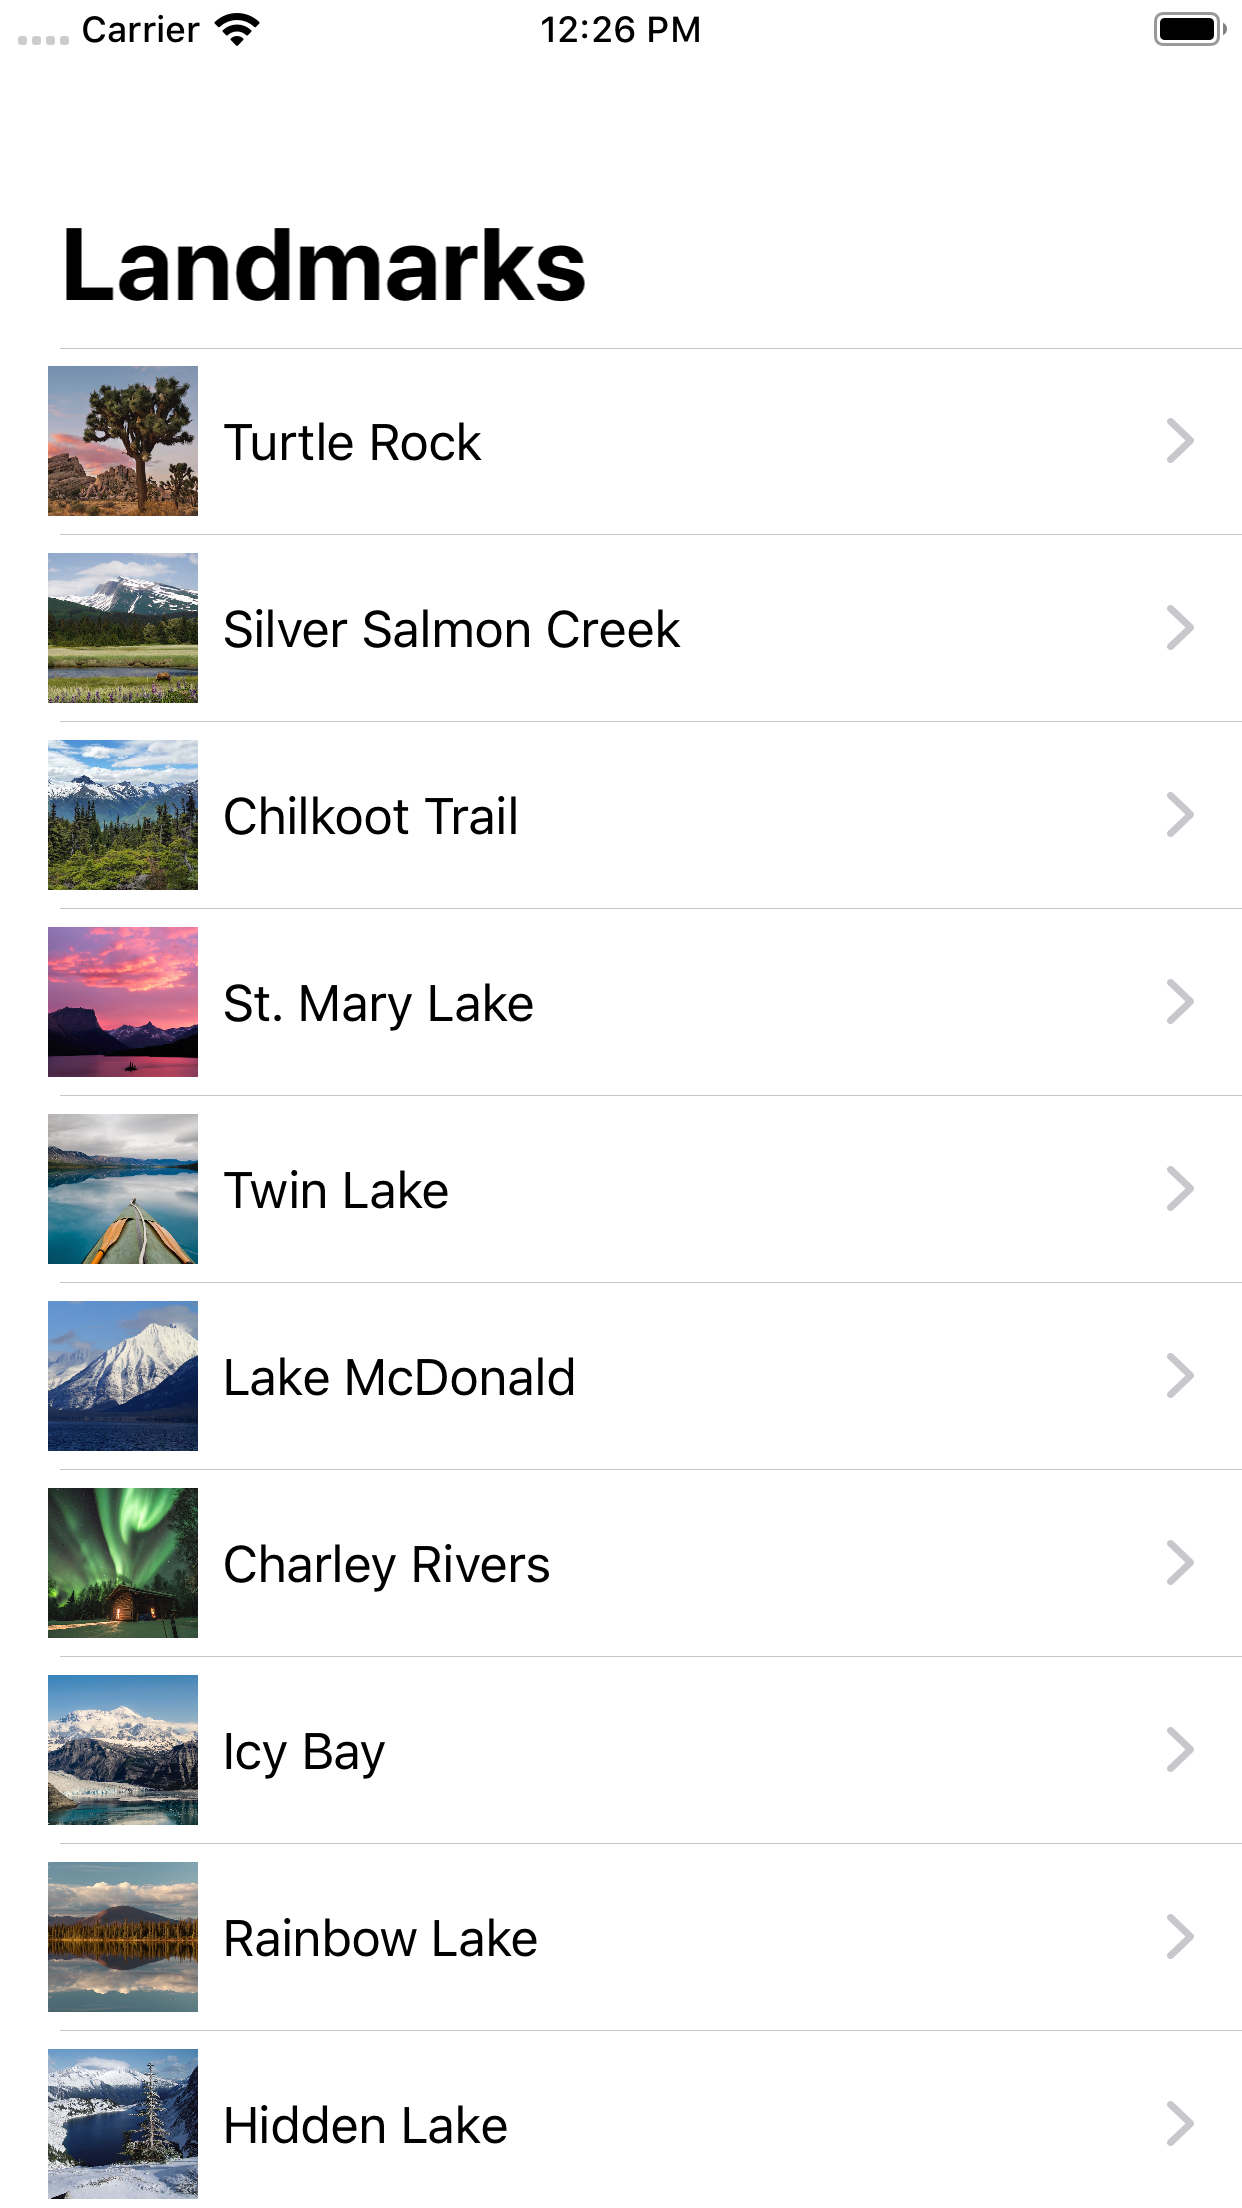
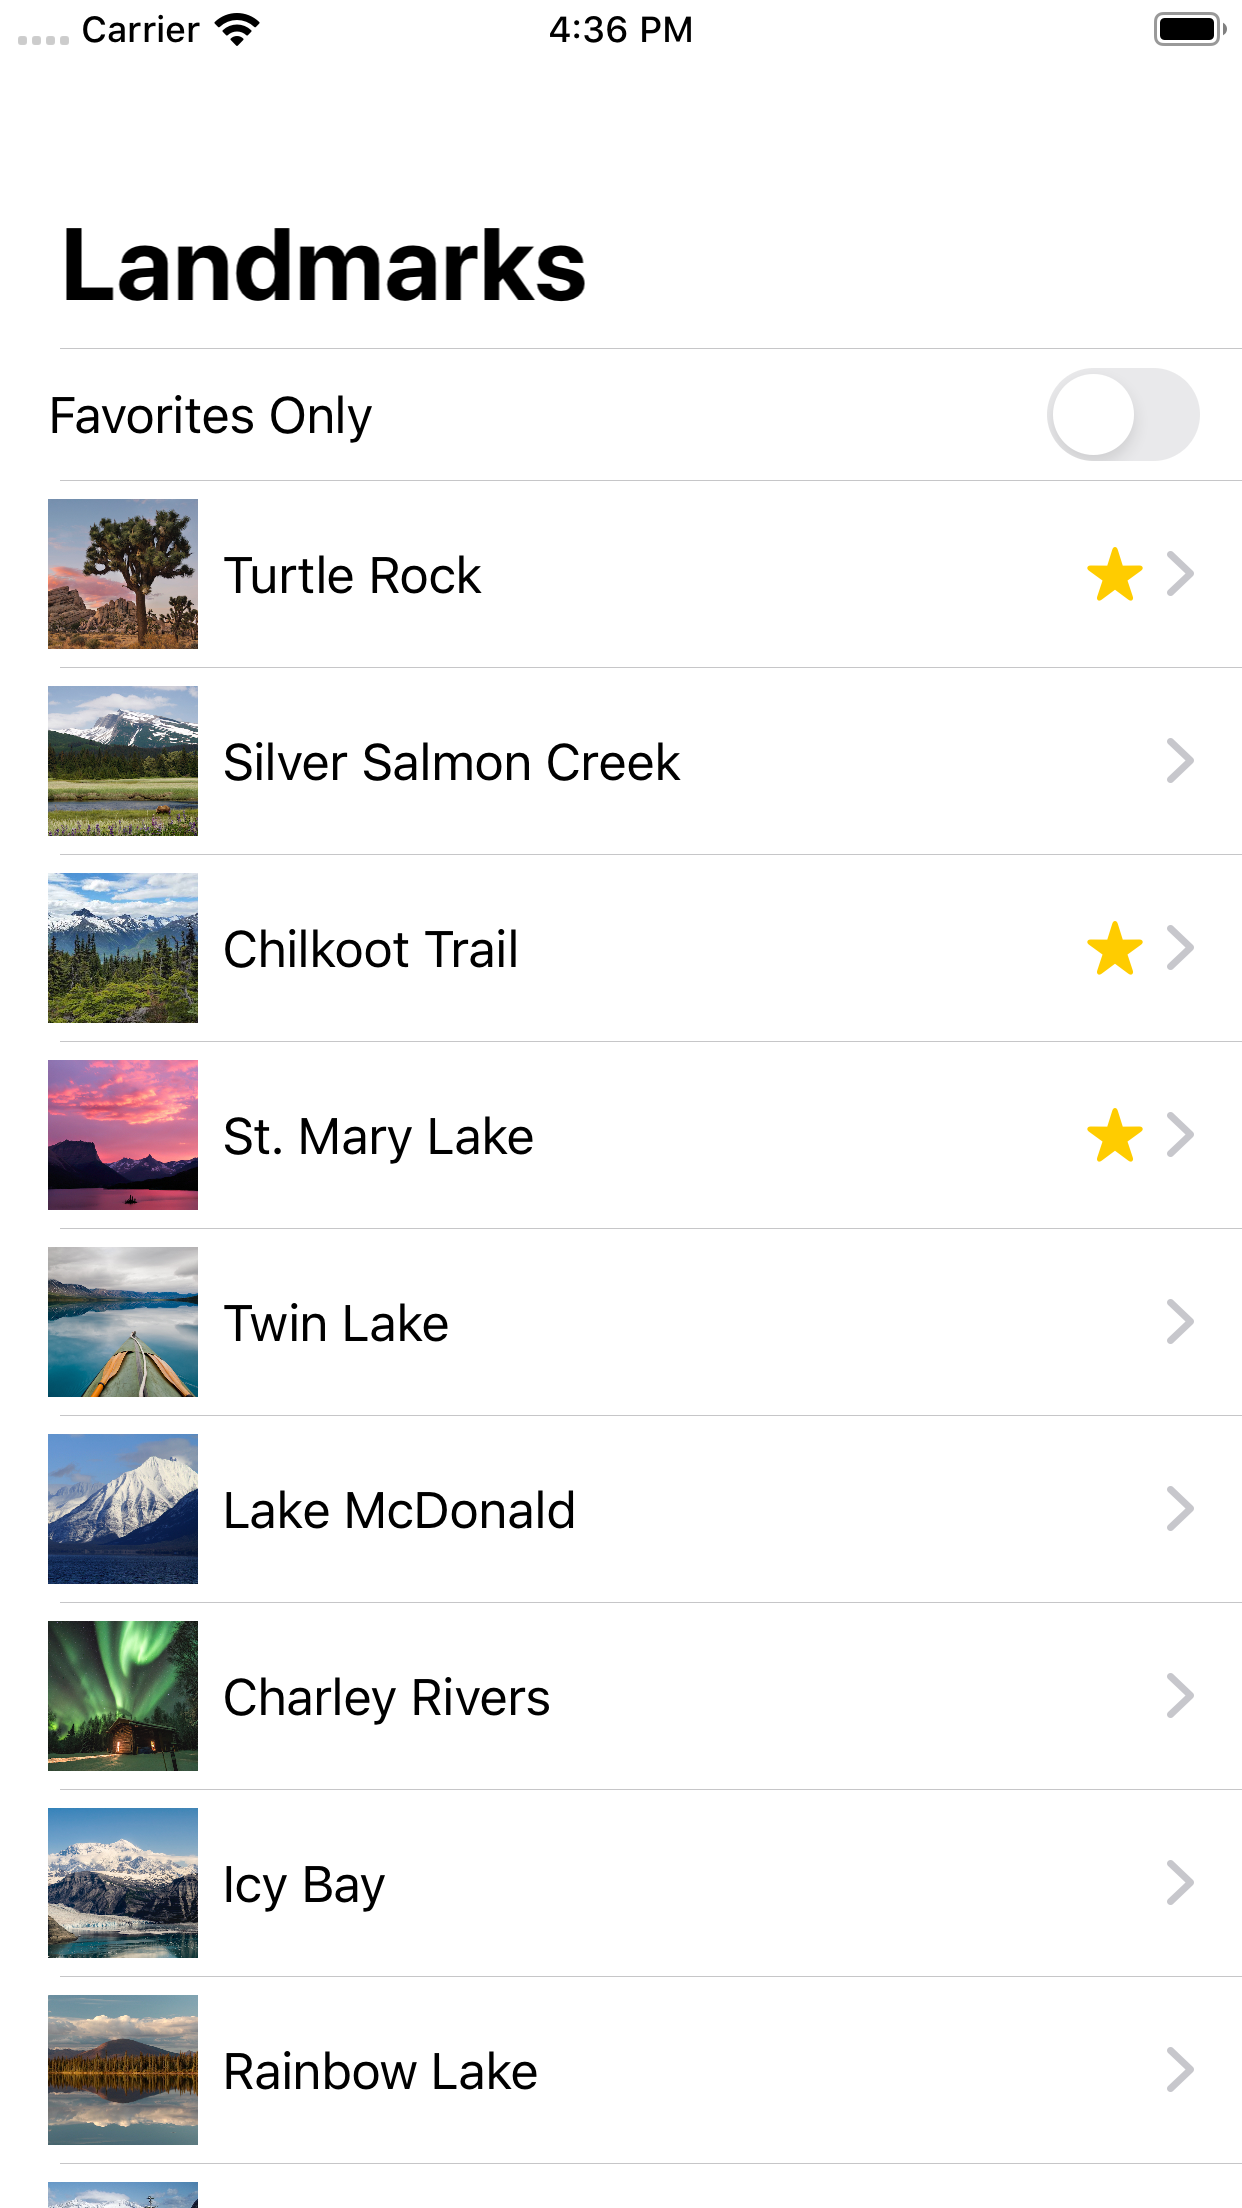
show favorite landmarks

diff --git a/Landmarks/LandmarkList.swift b/Landmarks/LandmarkList.swift
@@ -9,11 +9,24 @@
 import SwiftUI
 
 struct LandmarkList: View {
+    @EnvironmentObject var userData: UserData
+    
     var body: some View {
         NavigationView {
-            List(landmarkData) { landmark in
-                NavigationLink(destination: LandmarkDetail(landmark: landmark)) {
-                    LandmarkRow(landmark: landmark)
+            List {
+                Toggle(isOn: $userData.showFavoritesOnly) {
+                    Text("Favorites Only")
+                }
+                
+                ForEach(userData.landmarks) { landmark in
+                    if !self.userData.showFavoritesOnly || landmark.isFavorite {
+                        NavigationLink(
+                            destination: LandmarkDetail(landmark: landmark)
+                                .environmentObject(self.userData)
+                        ) {
+                            LandmarkRow(landmark: landmark)
+                        }
+                    }
                 }
             }
             .navigationBarTitle(Text("Landmarks"))
@@ -25,8 +38,7 @@ struct LandmarkList_Previews: PreviewProvider {
     static var previews: some View {
         ForEach(["iPhone SE", "iPhone XS Max"], id: \.self) { deviceName in
             LandmarkList()
-                .previewDevice(PreviewDevice(rawValue: deviceName))
-                .previewDisplayName(deviceName)
+                .environmentObject(UserData())
         }
     }
 }

diff --git a/Landmarks/LandmarkDetail.swift b/Landmarks/LandmarkDetail.swift
@@ -8,7 +8,12 @@ A view showing the details for a landmark.
 import SwiftUI
 
 struct LandmarkDetail: View {
+    @EnvironmentObject var userData: UserData
     var landmark: Landmark
+    
+    var landmarkIndex: Int {
+        userData.landmarks.firstIndex(where: { $0.id == landmark.id })!
+    }
 
     var body: some View {
         VStack {
@@ -21,8 +26,22 @@ struct LandmarkDetail: View {
                 .padding(.bottom, -130)
 
             VStack(alignment: .leading) {
-                Text(landmark.name)
-                    .font(.title)
+                HStack {
+                    Text(landmark.name)
+                        .font(.title)
+                    
+                    Button(action: {
+                        self.userData.landmarks[self.landmarkIndex].isFavorite.toggle()
+                    }) {
+                        if self.userData.landmarks[self.landmarkIndex].isFavorite {
+                            Image(systemName: "star.fill")
+                                .foregroundColor(Color.yellow)
+                        } else {
+                            Image(systemName: "star")
+                                .foregroundColor(Color.gray)
+                        }
+                    }
+                }
 
                 HStack(alignment: .top) {
                     Text(landmark.park)

diff --git a/Landmarks/SceneDelegate.swift b/Landmarks/SceneDelegate.swift
@@ -20,7 +20,8 @@ class SceneDelegate: UIResponder, UIWindowSceneDelegate {
         // Use a UIHostingController as window root view controller
         if let windowScene = scene as? UIWindowScene {
             let window = UIWindow(windowScene: windowScene)
-            window.rootViewController = UIHostingController(rootView: LandmarkList())
+            window.rootViewController = UIHostingController(rootView: LandmarkList()
+                .environmentObject(UserData()))
             self.window = window
             window.makeKeyAndVisible()
         }

diff --git a/Landmarks/Landmark Views/LandmarkRow.swift b/Landmarks/Landmark Views/LandmarkRow.swift
@@ -17,6 +17,12 @@ struct LandmarkRow: View {
                 .frame(width: 50, height: 50)
             Text(landmark.name)
             Spacer()
+            
+            if landmark.isFavorite {
+                Image(systemName: "star.fill")
+                    .imageScale(.medium)
+                    .foregroundColor(.yellow)
+            }
         }
     }
 }

diff --git a/Landmarks/Models/UserData.swift b/Landmarks/Models/UserData.swift
@@ -1,0 +1,15 @@
+//
+//  UserData.swift
+//  Landmarks
+//
+//  Created by Timothy Mubiru on 2/13/20.
+//  Copyright © 2020 Timothy Mubiru. All rights reserved.
+//
+
+import SwiftUI
+import Combine
+
+final class UserData: ObservableObject {
+    @Published var showFavoritesOnly = false
+    @Published var landmarks = landmarkData
+}
